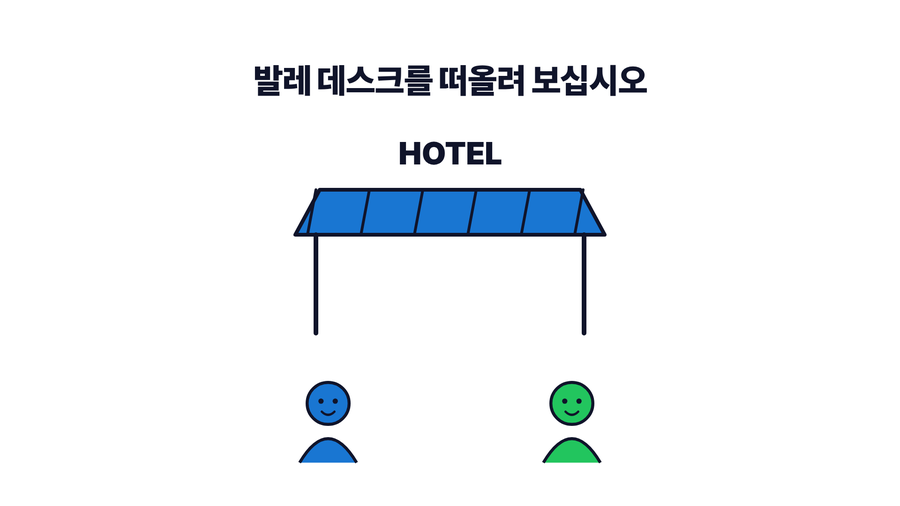
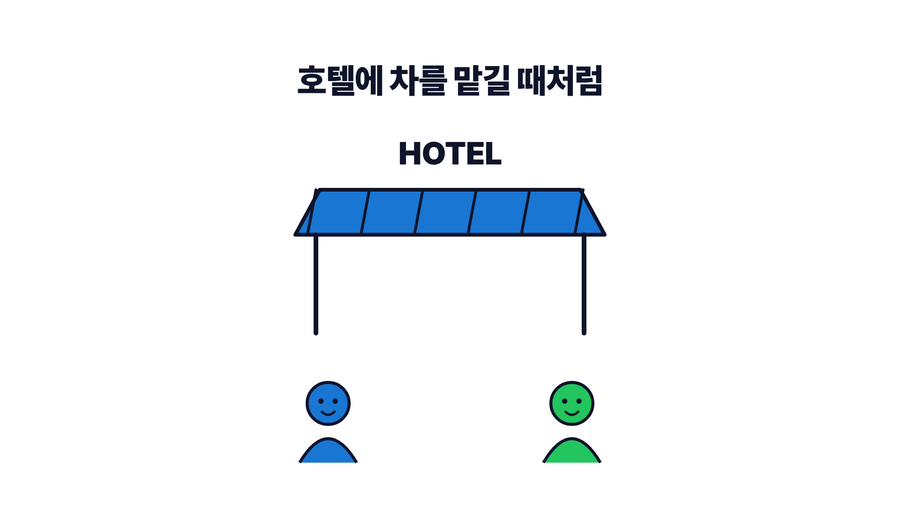
Rewrite the Korean page as Korean, not as a translation
The first pass read like English with Korean words on top — '당신' in
every other sentence, '발레 데스크' for a thing Korean speakers call
발레파킹, '버그가 아니라 제품입니다' straight from the English. Rewritten
so the sentences are ones a Korean developer would actually write, and
the valet illustration recaptioned to match.

Also gives the language switch room to breathe on narrow screens; it was
sitting on top of the app icon.

Changed region(s): [[0.28, 0.1186, 0.7156, 0.2075]]

diff --git a/docs/ko.html b/docs/ko.html
@@ -3,10 +3,10 @@
 <head>
 <meta charset="utf-8">
 <meta name="viewport" content="width=device-width, initial-scale=1">
-<title>ValetFS — 사용은 넘기고, 소유는 넘기지 않는다</title>
-<meta name="description" content="ValetFS는 API 키를 폰에 두고, AI 에이전트의 장비에는 메모리로만 빌려줍니다. 디스크에는 절대 쓰지 않고, 일이 끝나면 거둬들입니다.">
-<meta property="og:title" content="ValetFS — 사용은 넘기고, 소유는 넘기지 않는다">
-<meta property="og:description" content="시크릿은 당신의 폰에 있습니다. 에이전트는 허락하는 동안만, 메모리로만 빌려 씁니다.">
+<title>ValetFS — 맡기되, 넘기지는 않습니다</title>
+<meta name="description" content="API 키는 폰에 두고, 에이전트에게는 일하는 동안만 빌려줍니다. 에이전트 장비의 메모리에만 올라가고 디스크에는 남지 않습니다.">
+<meta property="og:title" content="ValetFS — 맡기되, 넘기지는 않습니다">
+<meta property="og:description" content="시크릿은 폰에 둡니다. 에이전트는 허락한 동안만, 메모리로만 빌려 씁니다.">
 <meta property="og:image" content="https://winm2m.github.io/valet-fs/media/icon.png">
 <meta property="og:type" content="website">
 <link rel="alternate" hreflang="en" href="https://winm2m.github.io/valet-fs/">
@@ -36,7 +36,7 @@
   .muted{color:var(--muted)}
 
   /* 언어 전환 */
-  #lang{position:absolute;top:22px;right:24px;font-size:.9rem}
+  #lang{position:absolute;top:22px;right:24px;font-size:.9rem;z-index:2}
   #lang a{color:var(--muted);text-decoration:none;padding:6px 12px;border:1px solid var(--line);border-radius:999px}
   #lang a.on{color:#fff;border-color:var(--blue);background:rgba(25,118,210,.18)}
 
@@ -76,7 +76,9 @@
   .cols{display:grid;grid-template-columns:1fr 1fr;gap:26px}
   .card{background:var(--panel);border:1px solid var(--line);border-radius:14px;padding:20px 22px}
   .card h3{margin-top:0}
-  @media (max-width:720px){ .cols{grid-template-columns:1fr} .hero h1{font-size:2.1rem} #lang{position:static;padding:16px 22px 0} }
+  @media (max-width:720px){ .cols{grid-template-columns:1fr} .hero h1{font-size:2.1rem}
+    #lang{position:static;padding:18px 22px 0;margin-bottom:30px}
+    header{padding-top:18px} }
 
   table{width:100%;border-collapse:collapse;margin:18px 0;font-size:.94rem}
   th,td{text-align:left;padding:10px 12px;border-bottom:1px solid var(--line)}
@@ -97,13 +99,13 @@
     <img src="media/icon.png" alt="ValetFS 앱 아이콘">
     <div>
       <h1>ValetFS</h1>
-      <p class="tagline">사용은 넘기고, 소유는 넘기지 않는다.</p>
+      <p class="tagline">맡기되, 넘기지는 않습니다.</p>
     </div>
   </div>
   <div class="wrap">
     <p class="lead" style="max-width:660px;margin-top:22px">
-      API 키는 당신의 폰에 있습니다. AI 에이전트는 그것을 자기 장비의 <strong>메모리로만</strong>
-      빌려 씁니다 — 디스크에는 절대 쓰지 않고, 당신이 허락하는 동안만.
+      API 키는 폰에 둡니다. AI 에이전트에게는 일하는 동안만 빌려주고,
+      키는 에이전트 장비의 <strong>메모리에만</strong> 올라갑니다. 디스크에는 남지 않습니다.
     </p>
     <div class="cta">
       <a class="btn btn-primary" href="https://apps.apple.com/app/valetfs/id6804526734">App Store에서 받기</a>
@@ -117,64 +119,63 @@
   <div class="wrap">
     <div class="video">
       <iframe src="https://www.youtube-nocookie.com/embed/dhSXAzI3Idg"
-              title="ValetFS — 에이전트가 당신의 모든 열쇠를 갖고 있습니다"
+              title="ValetFS — 에이전트가 내 키를 전부 쥐고 있다"
               allow="accelerometer; clipboard-write; encrypted-media; picture-in-picture"
               allowfullscreen loading="lazy"></iframe>
     </div>
     <p class="muted" style="text-align:center;font-size:.9rem">
-      이 앱이 왜 있는지 2분. 영문 내레이션이며 AI로 생성했습니다.
+      이 앱이 왜 필요한지 2분으로. 영어 내레이션이고 AI로 만들었습니다.
     </p>
   </div>
 </section>
 
 <section id="problem">
   <div class="wrap">
-    <h2>당신이 이미 치른 거래</h2>
+    <h2>이미 치르고 있는 값</h2>
     <p>
-      AI 에이전트에게 클라우드 토큰을 넘기면 놀라운 일이 벌어집니다. 인프라를 프로비저닝하고,
-      배포하고, 새벽 3시에 로그를 읽어 당신이 깨기 전에 문제를 고쳐 둡니다.
-      잠들지 않는 데브옵스 팀이 생긴 겁니다.
+      AI 에이전트에게 클라우드 토큰을 넘기면 확실히 편합니다. 인프라를 올리고, 배포하고,
+      새벽 세 시에 로그를 뒤져 문제를 고쳐 놓습니다. 잠들지 않는 데브옵스 팀이 하나 생긴 셈입니다.
     </p>
     <p>
-      그런데 그 대가를 보십시오. 당신이 가진 모든 토큰 — AWS, Cloudflare, GitHub, 데이터베이스 —
-      이 <strong>한 대의 장비 위에, 한 프로세스가 읽을 수 있는 상태로 놓입니다.</strong>
+      문제는 그 편의를 얻으려고 치른 값입니다. AWS, Cloudflare, GitHub, 데이터베이스 —
+      <strong>가진 키가 전부 한 대의 장비에, 프로세스 하나가 읽을 수 있는 상태로 놓입니다.</strong>
     </p>
     <figure>
       <img src="media/one-machine-ko.png" alt="여러 열쇠가 한 대의 노트북으로 모이는 그림">
-      <figcaption>한 파일이냐 열 개 파일이냐는 중요하지 않습니다. 같은 곳에 있다는 게 문제입니다.</figcaption>
+      <figcaption>한 파일에 몰아넣었든 열 개로 나눴든 상관없습니다. 같은 장비에 있다는 게 문제입니다.</figcaption>
     </figure>
-    <p>여기서 문제가 둘 생깁니다.</p>
+    <p>여기서 두 가지가 걸립니다.</p>
     <ul>
-      <li><strong>전부 같은 곳에 모여 있습니다.</strong> 한 번만 새면 자격증명 하나가 아니라
-        당신이 가진 전부가 털립니다.</li>
-      <li><strong>회수는 번거롭고, 그 번거로움이 곧 보안 문제입니다.</strong> 여기엔 회수 버튼이
-        없습니다 — 에이전트가 본 자격증명을 하나하나 다시 발급해야 하는데, 그게 귀찮아서 대부분
-        미룹니다. 그동안 에이전트는 그 파일들이 디스크에 있는 한, 일을 하든 새벽 4시에 놀고 있든
-        계속 접근 권한을 갖습니다.</li>
+      <li><strong>한곳에 몰려 있습니다.</strong> 한 번 새면 키 하나가 아니라 가진 게 전부
+        함께 털립니다.</li>
+      <li><strong>회수가 번거롭고, 그 번거로움이 곧 위험입니다.</strong> 회수 버튼 같은 건
+        없습니다. 에이전트가 본 키를 하나씩 다시 발급하는 수밖에 없는데, 손이 많이 가니 대개
+        미루게 됩니다. 미루는 동안에도 그 파일이 디스크에 남아 있는 한 접근 권한은 그대로
+        살아 있습니다. 에이전트가 일을 하고 있든, 새벽에 그냥 떠 있든 마찬가지입니다.</li>
     </ul>
     <p class="muted">
-      로테이션은 수습이지 통제가 아닙니다. "넘긴 시점"과 "다시 발급한 시점" 사이의 창을
-      아무도 재지 않습니다.
+      키를 다시 발급하는 건 사고가 난 뒤의 수습이지 예방이 아닙니다. 넘긴 시점과 다시 발급한
+      시점 사이의 공백은 아무도 재지 않습니다.
     </p>
   </div>
 </section>
 
 <section id="idea">
   <div class="wrap">
-    <h2>발상 — 발레 데스크</h2>
+    <h2>발레파킹에서 빌려온 발상</h2>
     <figure>
-      <img src="media/valet-stand-ko.png" alt="호텔 차양 아래의 발레 데스크">
+      <img src="media/valet-stand-ko.png" alt="호텔 입구에서 차를 맡기는 장면">
     </figure>
     <p>
-      당신은 차를 맡깁니다. 인생을 맡기는 게 아닙니다. 발레가 차를 몰고, 주차하고, 다시
-      가져다줍니다 — 그리고 열쇠는 당신에게 돌아옵니다. 20분 동안 차를 <em>쓸 권리</em>를
-      넘긴 것이지, 차를 넘긴 적은 없습니다.
+      호텔에 차를 맡길 때를 떠올려 보십시오. 키를 건네지만 차를 넘기는 건 아닙니다. 직원이
+      몰고 가 세워 두고 다시 가져다주면, 키는 도로 내 손에 들어옵니다. 잠깐 <em>쓸 권리</em>를
+      맡겼을 뿐, 차의 주인이 바뀐 적은 없습니다.
     </p>
     <figure>
       <img src="media/key-returns-ko.png" alt="열쇠가 주인에게 돌아오는 그림">
-      <figcaption>중요한 건 건네는 순간이 아니라 돌아오는 순간입니다.</figcaption>
+      <figcaption>중요한 건 건네는 순간이 아니라 돌려받는 순간입니다.</figcaption>
     </figure>
-    <p>ValetFS는 시크릿을 위한 그 발레 데스크입니다.</p>
+    <p>ValetFS는 키를 그런 식으로 다룹니다.</p>
   </div>
 </section>
 
@@ -182,29 +183,30 @@
   <div class="wrap">
     <h2>동작 방식</h2>
     <p>
-      시크릿은 폰 안의 앱에 있습니다. 에이전트가 도는 장비에는 작은 데몬을 띄웁니다. 당신이
-      허락하면 폰이 종단간 암호화된 경로로 그 데몬에 시크릿을 밀어 넣고, 데몬은 그것을
+      키는 폰 안의 앱에 보관합니다. 에이전트가 도는 장비에는 작은 데몬을 하나 띄웁니다.
+      허락하는 순간 폰이 종단간 암호화로 데몬에 키를 밀어 넣고, 데몬은 그걸
       <strong>메모리에만</strong> 들고 있습니다.
     </p>
     <figure>
       <img src="media/memory-not-disk-ko.png" alt="메모리에만 보관하고 디스크는 배제하는 그림">
     </figure>
     <p>
-      에이전트는 로컬 파일시스템처럼 읽습니다 — FUSE가 있으면 FUSE로, 없으면 루프백 WebDAV와
-      CLI로. 데몬이 내주는 어떤 것도 그 장비의 디스크에 기록되지 않습니다.
+      에이전트 입장에서는 그냥 로컬 파일입니다. FUSE를 쓸 수 있으면 FUSE로, 없으면 루프백
+      WebDAV와 CLI로 내줍니다. 데몬이 내주는 값이 그 장비의 디스크에 기록되는 일은 없습니다.
     </p>
     <div class="note">
-      <strong>금고 경로에는 <code>fs:</code> 접두사가 붙습니다.</strong>
-      <code>fs:/keys/github</code>는 "금고 안"이라는 뜻이지 "이 장비 위"가 아닙니다.
-      <code>ls</code>와 <code>cat</code>은 접두사 없는 경로를 아예 거부합니다. 하지만
-      <code>cp</code>와 <code>mv</code>는 둘 다 받고 방향을 추론하기 때문에, 거기서 접두사를
-      빼면 <strong>평문이 디스크에 쓰입니다.</strong> 이것 하나만은 외워 두십시오.
+      <strong>금고 경로에는 <code>fs:</code>를 붙입니다.</strong>
+      <code>fs:/keys/github</code>는 금고 안의 경로라는 뜻이지 이 장비의 경로가 아닙니다.
+      <code>ls</code>와 <code>cat</code>은 <code>fs:</code> 없는 경로를 아예 거부합니다.
+      문제는 <code>cp</code>와 <code>mv</code>입니다. 이 둘은 양쪽을 다 받고 방향을 알아서
+      판단하기 때문에, 여기서 접두사를 빠뜨리면 <strong>키가 평문 그대로 디스크에 쓰입니다.</strong>
+      이것 하나만 기억해 두십시오.
     </div>
     <h3>백엔드가 없습니다</h3>
     <p>
-      당신의 시크릿을 들고 있는 서버가 없습니다. 시그널링 허브 — Cloudflare Worker와 Durable
-      Object — 는 폰과 데몬이 서로를 찾도록 <strong>암호문만 중계</strong>합니다. 평문을 볼 수
-      없고, 세션이 붙은 뒤에는 경로에서 빠집니다.
+      키를 보관하는 서버가 없습니다. 중계 허브(Cloudflare Worker + Durable Object)는 폰과
+      데몬이 서로를 찾도록 <strong>암호문만 전달</strong>합니다. 평문은 볼 수 없고, 연결이
+      맺어진 뒤에는 경로에서 빠집니다.
     </p>
   </div>
 </section>
@@ -214,17 +216,17 @@
     <h2>연결하는 두 가지 방법</h2>
     <div class="cols">
       <div class="card">
-        <h3>1 · QR 코드 스캔</h3>
-        <p>장비에서 데몬을 실행하면 터미널에 ASCII QR 코드가 찍힙니다.</p>
+        <h3>1 · QR 코드로 연결</h3>
+        <p>장비에서 데몬을 실행하면 터미널에 QR 코드가 찍힙니다.</p>
         <pre><code>valetfs serve</code></pre>
-        <p>앱을 열고 <em>Pair a daemon</em>을 눌러 스캔하면 연결이 끝납니다.</p>
+        <p>앱에서 <em>Pair a daemon</em>을 눌러 그 QR을 찍으면 끝입니다.</p>
       </div>
       <div class="card">
-        <h3>2 · 에이전트에게 시키기</h3>
+        <h3>2 · 에이전트에게 맡기기</h3>
         <p>
-          아니면 터미널을 아예 건너뛰어도 됩니다. <em>Provision an agent</em>를 누르면 앱이
-          지시문을 대신 써 줍니다. 그걸 클로드 코드·제미나이·코덱스에 붙여넣으면 에이전트가
-          알아서 데몬을 내려받아 설치하고 세션에 접속합니다.
+          터미널을 열기 번거로우면 건너뛰어도 됩니다. <em>Provision an agent</em>를 누르면
+          앱이 지시문을 대신 써 줍니다. 클로드 코드나 제미나이, 코덱스에 그대로 붙여넣기만
+          하면 에이전트가 알아서 데몬을 받아 설치하고 세션에 붙습니다.
         </p>
       </div>
     </div>
@@ -235,74 +237,74 @@
       </figure>
       <figure>
         <img src="media/app-provision.png" alt="Provision agent 화면과 생성된 지시문">
-        <figcaption>지시문은 앱이 써 줍니다</figcaption>
+        <figcaption>지시문은 앱이 대신 씁니다</figcaption>
       </figure>
       <figure>
         <img src="media/app-session.png" alt="세션 상태와 조작 화면">
-        <figcaption>세션 상태와 조작</figcaption>
+        <figcaption>세션 상태와 제어</figcaption>
       </figure>
     </div>
     <p class="muted">
-      연결 키는 그 세션에 대한 무기명 권한입니다. 비밀 초대장처럼 다루고, 신뢰하는 에이전트에게
-      비공개 경로로만 전달하십시오.
+      연결 키는 그 세션을 여는 열쇠 그 자체입니다. 비밀번호처럼 다루고, 믿을 수 있는
+      에이전트에게 안전한 경로로만 건네십시오.
     </p>
   </div>
 </section>
 
 <section id="return">
   <div class="wrap">
-    <h2>회수는 자동입니다</h2>
+    <h2>돌려받는 건 자동입니다</h2>
     <p>
-      기억할 필요가 없습니다. 앱을 닫으면 데몬이 카운트다운을 시작하고, 시간이 다하면 금고가
-      언마운트되며 메모리는 0으로 덮여 지워집니다. 세션 화면은 <strong>언제 사라지는지</strong>를
-      알려줍니다 — 남은 시간만이 아니라 실제 시각으로.
+      따로 챙길 필요가 없습니다. 앱을 닫으면 데몬이 카운트다운을 시작하고, 시간이 다 되면
+      금고를 내리고 메모리를 0으로 덮어 지웁니다. 세션 화면에는 남은 시간이 아니라
+      <strong>몇 시에 지워지는지</strong>가 적힙니다.
     </p>
     <div class="shots">
       <figure>
         <img src="media/app-grace.png" alt="유예 시간 선택: 5분, 1시간, 1일, 7일">
-        <figcaption>유예 시간은 직접 고릅니다</figcaption>
+        <figcaption>유예 시간은 직접 정합니다</figcaption>
       </figure>
     </div>
-    <p>폰에서 즉시 끊을 수도 있습니다.</p>
+    <p>기다리지 않고 폰에서 바로 끊을 수도 있습니다.</p>
     <table>
-      <tr><th>동작</th><th>결과</th></tr>
-      <tr><td><strong>Lock now</strong></td><td>즉시 언마운트하고 메모리를 0으로 지웁니다</td></tr>
-      <tr><td><strong>Unmount</strong></td><td>파일시스템 제공만 멈추고 세션은 유지합니다</td></tr>
-      <tr><td><strong>Forget this daemon</strong></td><td>페어링 자체를 끊습니다</td></tr>
+      <tr><th>누르면</th><th>이렇게 됩니다</th></tr>
+      <tr><td><strong>Lock now</strong></td><td>바로 금고를 내리고 메모리를 0으로 지웁니다</td></tr>
+      <tr><td><strong>Unmount</strong></td><td>파일 제공만 멈추고 세션은 살려 둡니다</td></tr>
+      <tr><td><strong>Forget this daemon</strong></td><td>페어링 자체를 지웁니다</td></tr>
     </table>
     <div class="note warn">
-      <strong>지워지는 것은 버그가 아니라 제품입니다.</strong> 시크릿이 당신의 허락보다 오래
-      살아남을 수 있다면 나머지가 전부 무의미해집니다. 파일이 "사라졌다"면 거의 확실히 유예
-      시간이 끝난 것이고, 그건 설계대로 동작한 것입니다.
+      <strong>지워지는 건 오작동이 아니라 설계입니다.</strong> 키가 허락보다 오래 남을 수
+      있다면 나머지는 전부 의미를 잃습니다. 파일이 사라진 것 같다면 십중팔구 유예 시간이 끝난
+      것이고, 그건 제대로 동작한 겁니다.
     </div>
   </div>
 </section>
 
 <section id="install">
   <div class="wrap">
-    <h2>설치</h2>
-    <h3>폰 — 금고</h3>
+    <h2>설치하기</h2>
+    <h3>폰 — 금고 역할</h3>
     <p>
-      <a href="https://apps.apple.com/app/valetfs/id6804526734">App Store의 ValetFS</a>
-      — 무료, iPhone·iPad. 7개 언어 지원.
+      <a href="https://apps.apple.com/app/valetfs/id6804526734">App Store에서 ValetFS 받기</a>
+      — 무료이고 iPhone과 iPad를 지원합니다. 한국어를 포함해 7개 언어로 나옵니다.
     </p>
-    <h3>장비 — 데몬</h3>
-    <p>Linux x86_64·arm64. root도, 드라이버도, FUSE도 필요 없습니다.</p>
+    <h3>장비 — 데몬 실행</h3>
+    <p>Linux x86_64와 arm64를 지원합니다. root 권한도, 드라이버도, FUSE도 필요 없습니다.</p>
     <pre><code>curl -fsSL https://winm2m.github.io/valet-fs/install.sh | bash</code></pre>
     <p>
-      에이전트가 스킬을 지원한다면 ValetFS 스킬도 설치하십시오. 이후 세션에서도 디스크의
-      자격증명을 읽기 전에 금고를 먼저 확인하게 됩니다.
+      에이전트가 스킬을 지원한다면 ValetFS 스킬도 같이 설치하십시오. 다음 대화에서도
+      디스크의 키를 읽기 전에 금고부터 확인하게 됩니다.
     </p>
     <pre><code>curl -fsSL https://winm2m.github.io/valet-fs/install-skill.sh | bash</code></pre>
     <p>
-      macOS·Windows나 지원되지 않는 아키텍처에서는 소스에서 빌드하십시오 —
+      macOS나 Windows, 그 밖에 지원하지 않는 아키텍처라면 소스에서 빌드하면 됩니다 —
       <code>go build -o valetfs ./cmd/valetfs</code>.
-      자세한 내용은 <a href="install.html">설치 가이드</a>에 있습니다.
+      자세한 내용은 <a href="install.html">설치 가이드</a>를 보십시오.
     </p>
-    <h3>시크릿 읽기</h3>
-    <pre><code>valetfs ls -l fs:/keys        # 앱이 밀어 넣은 것 보기
-valetfs cat fs:/keys/github   # 하나 읽기
-valetfs status                # 마운트 상태·사용량·유예 카운트다운</code></pre>
+    <h3>키 읽기</h3>
+    <pre><code>valetfs ls -l fs:/keys        # 앱이 밀어 넣은 것 확인
+valetfs cat fs:/keys/github   # 하나 꺼내 보기
+valetfs status                # 마운트 상태, 사용량, 남은 유예 시간</code></pre>
   </div>
 </section>
 
@@ -310,13 +312,13 @@ valetfs status                # 마운트 상태·사용량·유예 카운트다
   <div class="wrap">
     <h2>오픈소스</h2>
     <p>
-      데몬·CLI·시그널링 워커는 MIT 라이선스로
+      데몬과 CLI, 중계 워커는 MIT 라이선스로
       <a href="https://github.com/winm2m/valet-fs">github.com/winm2m/valet-fs</a>에 공개돼
-      있습니다. 무엇이 당신의 시크릿에 닿는지 직접 읽어보고, 직접 빌드할 수 있습니다.
+      있습니다. 무엇이 키에 닿는지 직접 읽어보고, 직접 빌드해 쓸 수 있습니다.
     </p>
     <p>
-      iOS 앱은 무료입니다. <strong>ValetFS Pro</strong>는 한 번만 결제하는 인앱 구매로,
-      iCloud 키체인 동기화를 더합니다 — 금고가 한 대의 폰에 묶이지 않고 새 기기로 따라옵니다.
+      iOS 앱은 무료입니다. <strong>ValetFS Pro</strong>는 한 번만 결제하면 되는 인앱 구매로,
+      iCloud 키체인 동기화가 붙습니다. 금고가 폰 한 대에 묶이지 않고 새 기기로 따라옵니다.
     </p>
   </div>
 </section>
@@ -329,7 +331,7 @@ valetfs status                # 마운트 상태·사용량·유예 카운트다
     <a href="support.html">지원</a>
     <a href="privacy.html">개인정보</a>
     <a href="https://winm2m.com">WinM2M</a>
-    <p style="margin-top:18px">WinM2M이 만드는 작은 오픈소스 개발자 도구.</p>
+    <p style="margin-top:18px">WinM2M이 만드는 작은 오픈소스 개발자 도구들.</p>
   </div>
 </footer>
 

diff --git a/docs/index.html b/docs/index.html
@@ -83,10 +83,10 @@
   th,td{text-align:left;padding:10px 12px;border-bottom:1px solid var(--line)}
   th{color:var(--muted);font-weight:600}
 
-  #lang{position:absolute;top:22px;right:24px;font-size:.9rem}
+  #lang{position:absolute;top:22px;right:24px;font-size:.9rem;z-index:2}
   #lang a{color:var(--muted);text-decoration:none;padding:6px 12px;border:1px solid var(--line);border-radius:999px}
   #lang a.on{color:#fff;border-color:var(--blue);background:rgba(25,118,210,.18)}
-  @media (max-width:720px){ #lang{position:static;padding:16px 22px 0} }
+  @media (max-width:720px){ #lang{position:static;padding:18px 22px 0;margin-bottom:30px} header{padding-top:18px} }
   footer{padding:46px 0 70px;border-top:1px solid var(--line);color:var(--muted);font-size:.93rem}
   footer a{margin-right:18px}
 </style>
